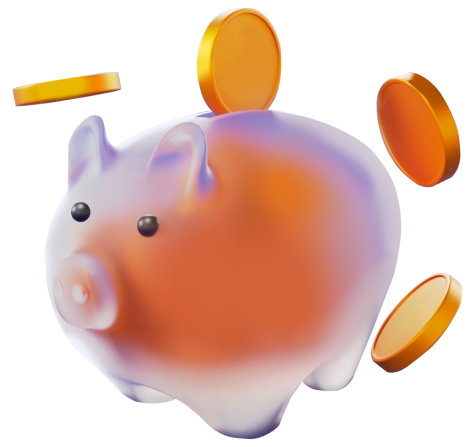
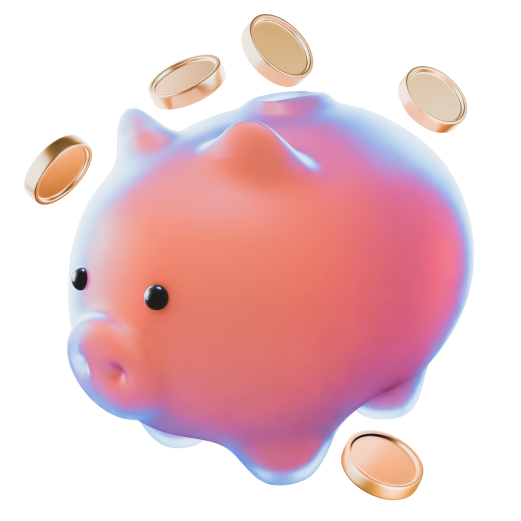
replace 3d IMG

diff --git a/src/components/PigFinance.vue b/src/components/PigFinance.vue
@@ -47,6 +47,8 @@ section {
     justify-content: space-between;
     background: rgb(232, 239, 244);
     border-radius: 30px;
+    max-height: 470px;
+
 }
 
 .textContainer {
@@ -92,11 +94,13 @@ button {
     background: rgb(32, 175, 206);
 }
 
-.imageContainer {
-    width: 470px;
+.imageContainer{
+    margin-top: -25px
 }
 
 img {
     transform: rotate(2.01deg);
+    width: 521px;   
+    height: 521px;
 }
 </style>

diff --git a/src/components/HelpEverClient.vue b/src/components/HelpEverClient.vue
@@ -99,7 +99,9 @@ section {
     justify-content: space-between;
 }
 
-.content {}
+.content {
+
+}
 
 h3 {
     font-family: "Montserrat", sans-serif;
@@ -142,10 +144,5 @@ p {
     display: flex;
     justify-content: center;
     
- 
-    img {
-        max-width: 235px;
-        max-height: 188px;
-    }
 }
 </style>

diff --git a/src/components/Offers.vue b/src/components/Offers.vue
@@ -176,7 +176,8 @@ section {
 
     &__img {
         margin-top: auto;
-        height: 320px;
+        width: 660px;
+        height: 317px;
     }
 }
 </style>
